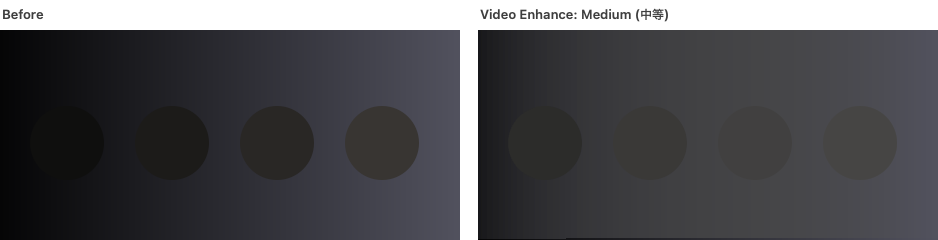
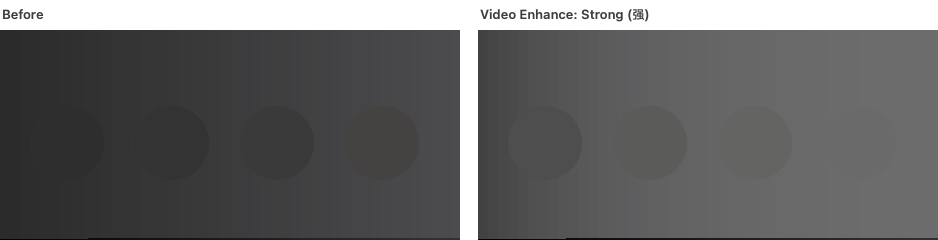
Make the comparisons legible, and add a Chinese README
The text and video comparisons were too subtle to read: both now simulate a
low-contrast e-ink panel on both halves, which is the situation those
adjustments exist for, with larger text and darker source content.

Saturation deliberately does not simulate the panel. Applying the gamut loss to
both halves buried the very difference the image exists to show, and pushing the
source colours further backfired because fully saturated colours clip at 200%.
It uses mid-saturation colours, the range that actually gains.

Adds README.zh-Hans.md with the full text in Chinese, cross-linked from the
English README.

diff --git a/README.zh-Hans.md b/README.zh-Hans.md
@@ -1,0 +1,135 @@
+# 墨水屏助手 E-Ink Assistant
+
+**让彩色墨水屏显示器在 macOS 上正常显示。**
+
+[English](README.md) · **简体中文**
+
+彩色墨水屏发灰、对比度低，还会因为 macOS 的抖动处理而不停闪烁。这是一个小巧的菜单栏应用，
+逐显示器解决这三个问题，你的笔记本内屏不受影响。
+
+无需任何权限。除应用本身外没有后台服务。MIT 开源协议。
+
+---
+
+## 功能
+
+### 减少抖动
+
+macOS 会用抖动（dithering）让渐变更平滑。LCD 会在刷新中把这种图案抹掉，而墨水屏会保持每一个
+像素，于是它就变成了持续的闪烁。关掉之后画面就稳定下来了。
+
+勾选显示器为墨水屏时会自动开启，因为这通常是最先被注意到的问题。
+
+### 饱和度
+
+彩色墨水屏是在黑白屏上加了一层彩色滤光片，因此损失了大部分色域。提高饱和度可以补偿这一点。
+
+![饱和度调整前后对比](docs/saturation.png)
+
+预设 **原厂 / 增强 / 艳丽 / 动漫**，也可以用滑块在 60%–300% 之间调节。
+
+### 文字对比度
+
+加深文字，让它在对比度本就很有限的屏幕上和背景区分开。浅色和次要文字受益最大：在最强档位下，
+它们的对比度大约提升到三倍。
+
+![文字对比度调整前后对比](docs/text-contrast.png)
+
+四个档位：**中等、强、锐利、实边**。实边还会把抗锯齿边缘压成纯黑，更清晰，但边缘会显得偏硬。
+
+### 视频暗部增强
+
+只提亮最暗的部分，中间调和高光完全不变，让墨水屏通常会糊成一团的暗部细节重新可见。
+
+![视频暗部增强调整前后对比](docs/video-enhance.png)
+
+三个档位：**轻微、中等、强**。
+
+它无法区分暗部画面和深色文字，所以文字也会一起变浅。**建议看视频和照片时开启，阅读时关闭。**
+应用在档位开启时会给出提示，并且它与文字对比度互斥。
+
+### 高级
+
+直接控制曲线（拐点、伽马、黑点、白点），带实时曲线图，以及五个可保存、可重命名的槽位。
+
+> 上面的对比图是用应用真实的算法生成的模拟效果，在 LCD 上渲染。文字对比度和视频暗部增强两张图
+> 额外模拟了低对比度墨水屏的显示效果，因为这两项调整正是要解决那种情况；饱和度那张则是直接
+> 展示算法本身。实际观感取决于你的屏幕。
+
+---
+
+## 安装
+
+需要 **macOS 14 或更高版本**，**Apple Silicon**。
+
+```
+git clone https://github.com/kiteretsu903/eink-assistant.git
+cd eink-assistant
+./build.sh
+open "E-Ink Assistant.app"
+```
+
+也可以从 [Releases](../../releases) 下载。
+
+### 首次启动：通过 Gatekeeper
+
+本应用是**自签名（ad-hoc），未经过 Apple 公证**，所以 macOS 第一次会拒绝打开下载来的版本。
+
+**在 macOS 15 及以上版本，右键“打开”已经不再有效。** 请按以下步骤操作：
+
+1. 先尝试打开一次应用，关掉弹出的警告。
+2. 打开**系统设置 → 隐私与安全性**。
+3. 向下滚动，会看到一行提示该应用已被阻止，旁边有**仍要打开**按钮。
+4. 点击并确认。
+
+如果没有出现该按钮，可以直接清除隔离标记：
+
+```
+xattr -dr com.apple.quarantine "/path/to/E-Ink Assistant.app"
+```
+
+自行从源码编译则完全不会遇到这个问题：本地编译的应用不会被加上隔离标记。
+
+---
+
+## 使用
+
+1. 从菜单栏打开应用。
+2. 勾选你的墨水屏显示器。只有勾选后才会出现各项控制。
+3. 减少抖动会自动开启。然后按需要调整饱和度。
+4. 阅读时开启文字对比度，看视频时开启视频暗部增强，两者不要同时开。
+
+**退出应用时所有设置都会还原**，启动时再重新应用，因此应用需要保持运行。希望自动生效的话，
+请打开**登录时启动**。
+
+---
+
+## 适用范围
+
+所有数值都是在一台 **Bigme B251 Pro**（固件版本 R2 FW V2.0）上调校的，配置为：
+**网页模式、硬件伽马“等级3”、对比度 50、色彩还原模式关闭**。
+
+原理本身并不局限于这块屏幕，任何 macOS 能指定颜色配置文件的显示器都适用，但预设值是对着这一块
+屏幕用眼睛调出来的。其他墨水屏显示器可能同样受益，**请自行斟酌使用，风险自负**。
+
+减少抖动仅支持 Apple Silicon，在不支持的硬件上会自动隐藏。
+
+---
+
+## 更多
+
+- [CHANGELOG.md](CHANGELOG.md)：各版本更新内容
+- [TECHNICAL.md](TECHNICAL.md)：实现原理、实测数据，以及在新版 macOS 上**行不通**的做法（英文）
+- [mac-saturation](https://github.com/kiteretsu903/mac-saturation)：颜色部分的完整调查过程，
+  以及一个导出配置文件的命令行工具（英文）
+
+## 许可与致谢
+
+MIT，见 [LICENSE](LICENSE)。
+
+**减少抖动基于 [Stillcolor](https://github.com/aiaf/Stillcolor)（作者 Abdullah Arif，MIT
+协议）。** Stillcolor 发现了可以通过 `enableDither` 这个 I/O Registry 属性关闭显示器抖动，
+这正是本功能的全部基础。本项目在此基础上重新实现，并把作用范围从全部显示器收窄到单个显示器；
+发现这个方法的功劳属于 Stillcolor。感谢。
+
+完整声明见 [THIRD-PARTY-NOTICES.md](THIRD-PARTY-NOTICES.md)。

diff --git a/README.md b/README.md
@@ -6,6 +6,8 @@ Colour e-ink panels are washed out, low contrast, and shimmer under macOS's
 dithering. This is a small menu bar app that fixes all three, per display, so
 your laptop screen is left alone.
 
+**English** · [简体中文](README.zh-Hans.md)
+
 No permissions. No background service beyond the app itself. MIT licensed.
 English and 简体中文.
 
@@ -62,9 +64,11 @@ level is active, and it and Text Contrast are mutually exclusive.
 Full control of the curve (knee, gamma, black point, white point) with a live
 plot and five saveable, renameable slots.
 
-> The comparison images above are simulations of each transform, rendered on an
-> LCD. They show what the adjustment does to the signal; how much of it you see
-> depends on your panel.
+> The comparison images are generated from the app's real transforms and
+> rendered on an LCD. The text and video images additionally simulate a
+> low-contrast e-ink panel, since that is the situation those adjustments
+> address; the saturation image shows the transform directly. What you actually
+> see depends on your panel.
 
 ---
 
